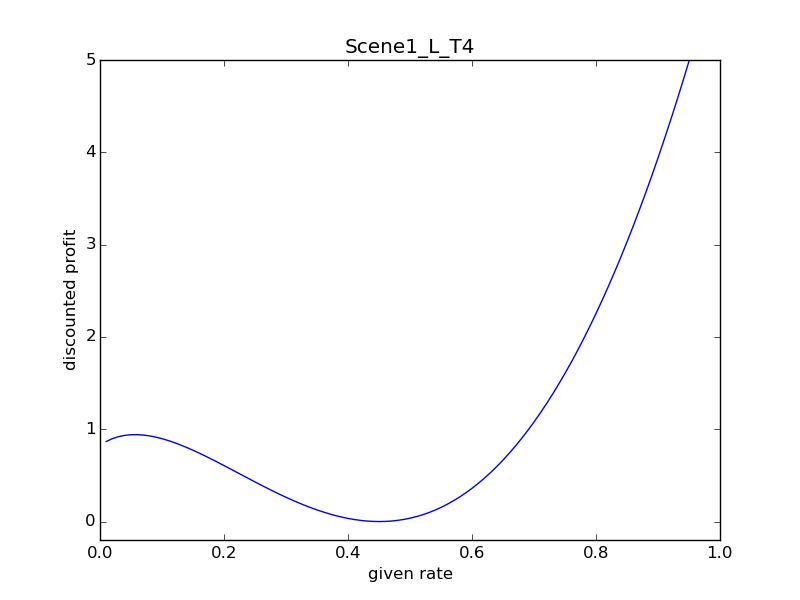
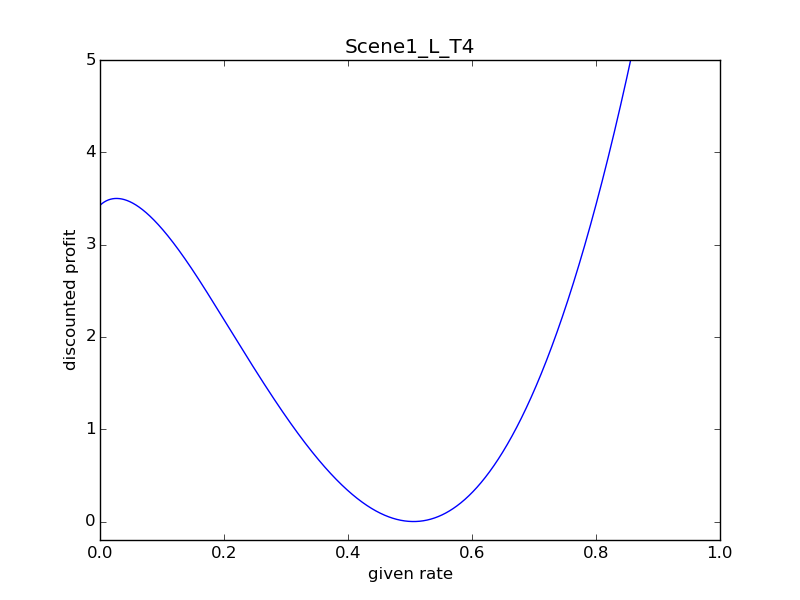
run for more scenes, plot path

diff --git a/infinite/infinite.py b/infinite/infinite.py
@@ -3,12 +3,29 @@ import matplotlib.pylab as py
 import numpy as np
 
 class Scene:
-	def __init__(self, traits):
-		(lam, B, alpha) = traits
+	def __init__(self, ID, traits):
+		(lam, B, alpha, t) = traits
+		self.ID = ID
 		self.lam = lam*1.0
 		self.B = B*1.0
 		self.alpha = alpha*1.0
 		self.lamB = self.lam*self.B
+		self.trueT = t #the number of periods I have control over
+
+	def setDPTable(self, DPTable):
+		#structure of DPTable:
+		#DPT[t][i] =(x,y) means at time trueT-t, given rate (i+1)/N, 
+		#we should go to rate x for rev y
+		self.DPTable = DPTable
+		
+		#since I have the DPTable, might as well initialize a path dictionary
+		self.pathDict={}
+
+	def setVTable(self, V):
+		self.V = V
+
+	def setLTable(self, L):
+		self.L = L
 
 #compute the max of this period based on a grid
 #returns vector
@@ -82,49 +99,124 @@ def writeToFile(X,Z, name):
 	f.close()
 
 
+#analyze scene, do plots, etc
+def analyzeScene(scene):
+	#Plot V
+	V=[]
+	DPTable=[]
+
+	#structure of DPTable:
+	#DPT[t][i] =(x,y) means at time trueT-t, given rate (i+1)/N, we should go to rate x for rev y
+	for t in range(0,T):
+		if t ==0:	
+			y=VInf(X, scene)
+			V.append(y)
+		
+	#		maxR = maximum(X,y)
+	#		print trait, maxR
+
+		else:
+			z = VNow(X, V[t-1], scene)
+			DPTable.append(z)
+			y = [x[1] for x in z]
+			V.append(y)
+
+
+	plot(X,V, "Scene"+str(scene.ID)+"_V_T", [0,1,-0.2, 5])
+
+	#writeToFile(X,DPTable,"Scene"+str(scene.ID))
+
+	#plot L
+	L = []
+	for t in range(0,T):
+		y=[V[t][j] - maintain(X[j], scene) for j in range(0,N)]
+		L.append(y)
+
+	#	if t !=0:
+	#		minR = minimum(X,y)
+		#	print trait, t, minR
+
+	plot(X,L,"Scene"+str(scene.ID)+"_L_T", [0,1, -0.2, 5.0])
+
+	scene.setDPTable(DPTable)
+	scene.setVTable(V)
+	scene.setLTable(L)
+
+#make sure start is on the grid?
+def extractPath(scene, start):
+	p=[start]
+	index = int(start*N-1)
+
+	for i in range(T-2, -1, -1):
+		nextRate = scene.DPTable[i][index][0]
+		p.append(nextRate)
+		index = int(nextRate*N-1)
+	return p
+	
+
+
+#plot the paths for a bunch of different starters onto the same graph
+def plotPath(scene):
+	fig = py.figure()
+	py.title("Scene"+str(scene.ID)+" path")
+	py.xlabel("time")
+	py.ylabel("rate")
+	for x in scene.pathDict:
+		py.plot(scene.pathDict[x], label = str(x))
+ 	py.axis([0,10,0,1])	
+	fig.savefig("Scene"+str(scene.ID)+"_path")
+	py.close(fig) 
+
+
 #=======================================================
 #grid size; will use r =1/N, 2/N, ..., 1
-N=100
-
+N=2000
 X = [(i+1.0)/N for i in range(0,N)] 
 
+
+#define a set of "starter" rates that we will consider
+starter = [0.001, 0.01, 0.1, 0.2, 0.3,  0.4, 0.5, 0.6, 0.7, 0.8, 0.9]
+#####################################################3
+#define scenes
+sceneDict={}
+
 #traits(lam, B, alpha)
-trait = (1.0, -1/4.0, 0.95)
-scene1 = Scene(trait)
+trait = (0.5, -1/3.0, 0.95, 20)
+sceneDict[1] = Scene(1, trait)
 
-#number of time periods to go back
-T = 5
+trait = (0.5, -1/3.0, 0.9, 20)
+sceneDict[2] = Scene(2, trait)
 
-#Plot V
-V=[]
-Z=[]
-for t in range(0,T):
-	if t ==0:	
-		y=VInf(X, scene1)
-		V.append(y)
-		
-		maxR = maximum(X,y)
-		print trait, maxR
+trait = (0.5, -1/3.0, 0.85, 20)
+sceneDict[3] = Scene(3, trait)
 
-	else:
-		z = VNow(X, V[t-1], scene1)
-		Z.append(z)
-		y = [x[1] for x in z]
-		V.append(y)
+trait = (0.5, -1/3.0, 0.95, 3)
+sceneDict[4] = Scene(4, trait)
+
+trait = (0.5, -1/3.0, 0.95, 2)
+sceneDict[5] = Scene(5, trait)
+
+trait = (0.5, -1/3.0, 0.95, 1)
+sceneDict[6] = Scene(6, trait)
+
+trait = (1.0, -1/4.0, 0.95, 20)
+sceneDict[20] = Scene(20, trait)
 
 
-plot(X,V, "Scene1_V_T", [0,1,-0.2, 1.5])
 
-writeToFile(X,Z,"Scene1")
+###########################################
 
-#plot L
-L = []
-for t in range(0,T):
-	y=[V[t][j] - maintain(X[j], scene1) for j in range(0,N)]
-	L.append(y)
+for i in sceneDict:
+	myScene = sceneDict[i]
+	T = myScene.trueT+1
+	analyzeScene(myScene)
+	for x in starter:
+		path = extractPath(myScene, x)
+		myScene.pathDict[x] = path
+	
+	plotPath(myScene)
 
-	if t !=0:
-		minR = minimum(X,y)
-		print trait, t, minR
-
-plot(X,L,"Scene1_L_T", [0,1, -0.2, 5.0])
+	
+#myScene = sceneDict[20]
+#analyzeScene(myScene)
+#print extractPath(myScene, 0.001)
